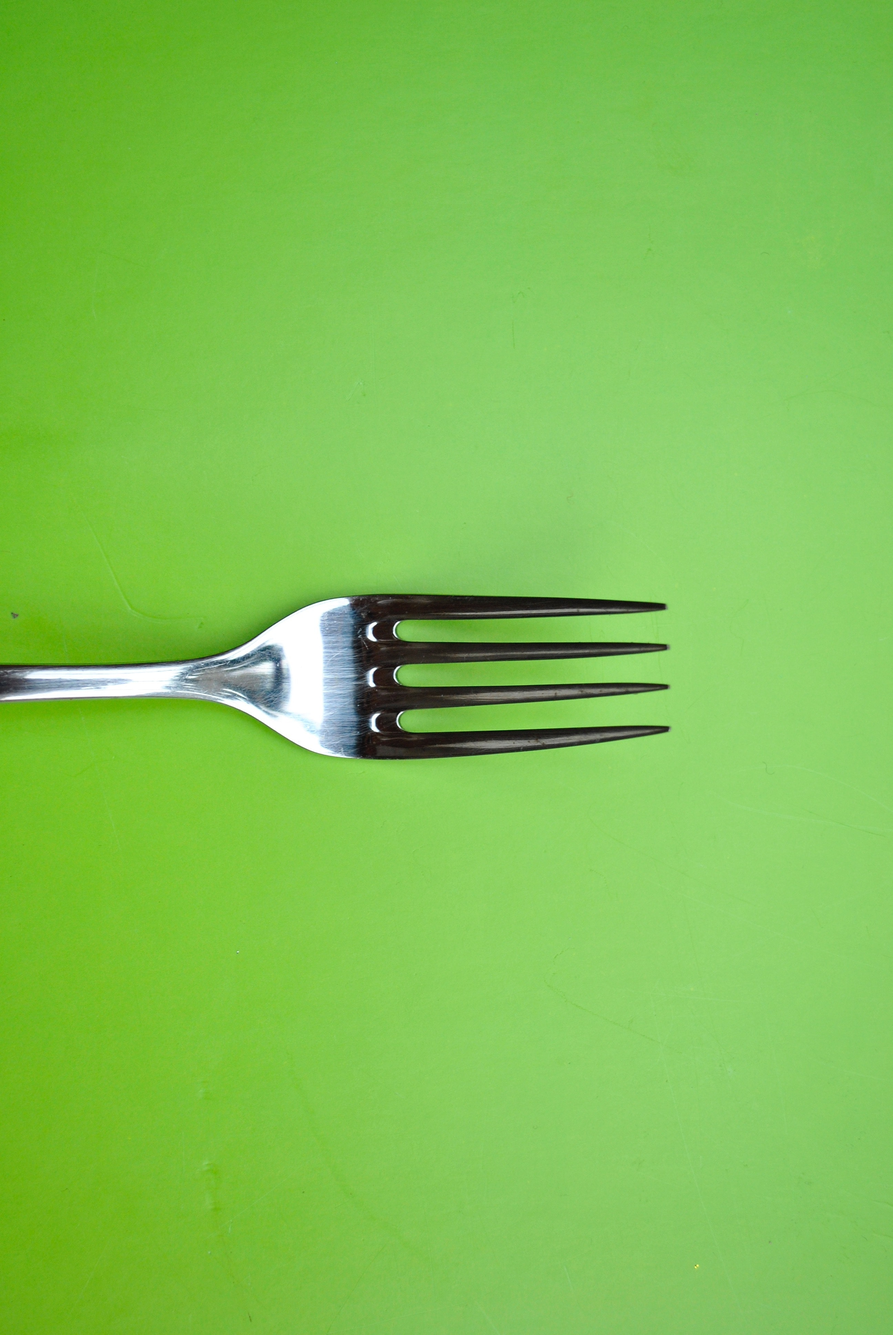
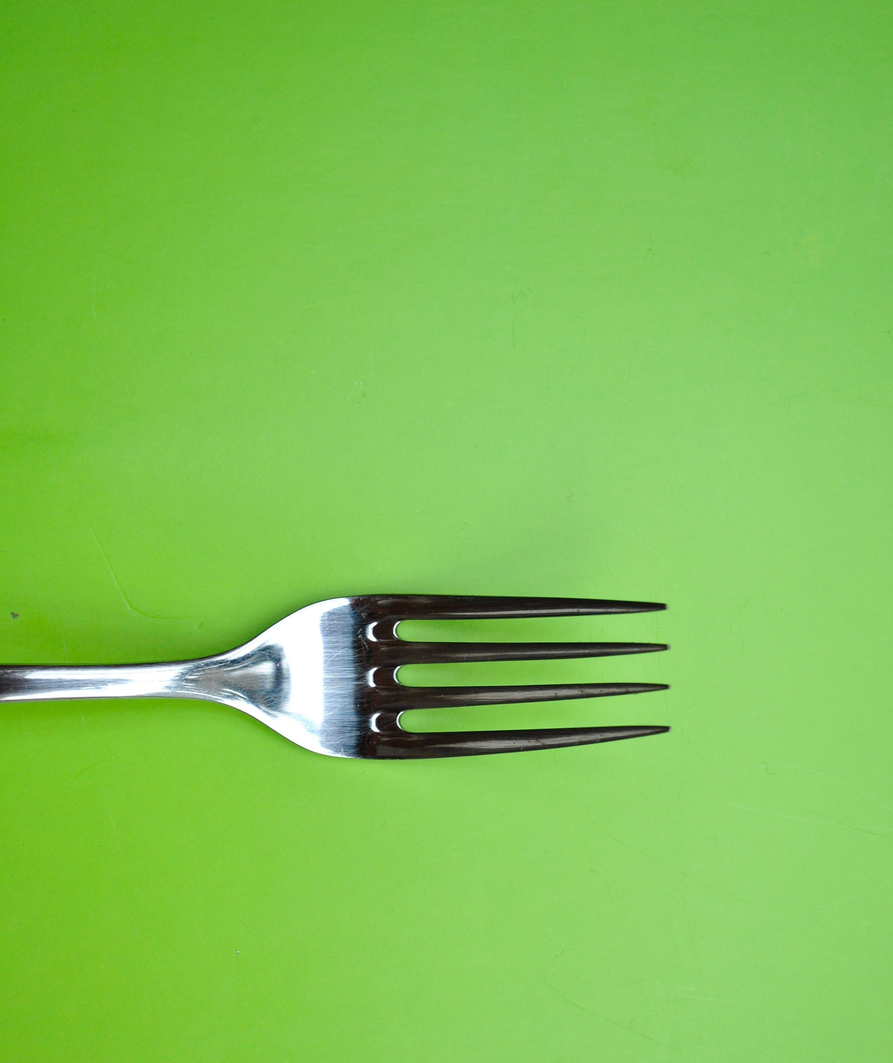
update images

diff --git a/static/styles.css b/static/styles.css
@@ -251,7 +251,7 @@
 
 /* SHOWCASE */
 #showcase {
-    background:url('../static/images/homepage_search2.jpg') no-repeat center center/cover;
+    background:url('../static/images/homepage.jpg') no-repeat center center/cover;
     position:relative;
   }
       .showcase-container{
